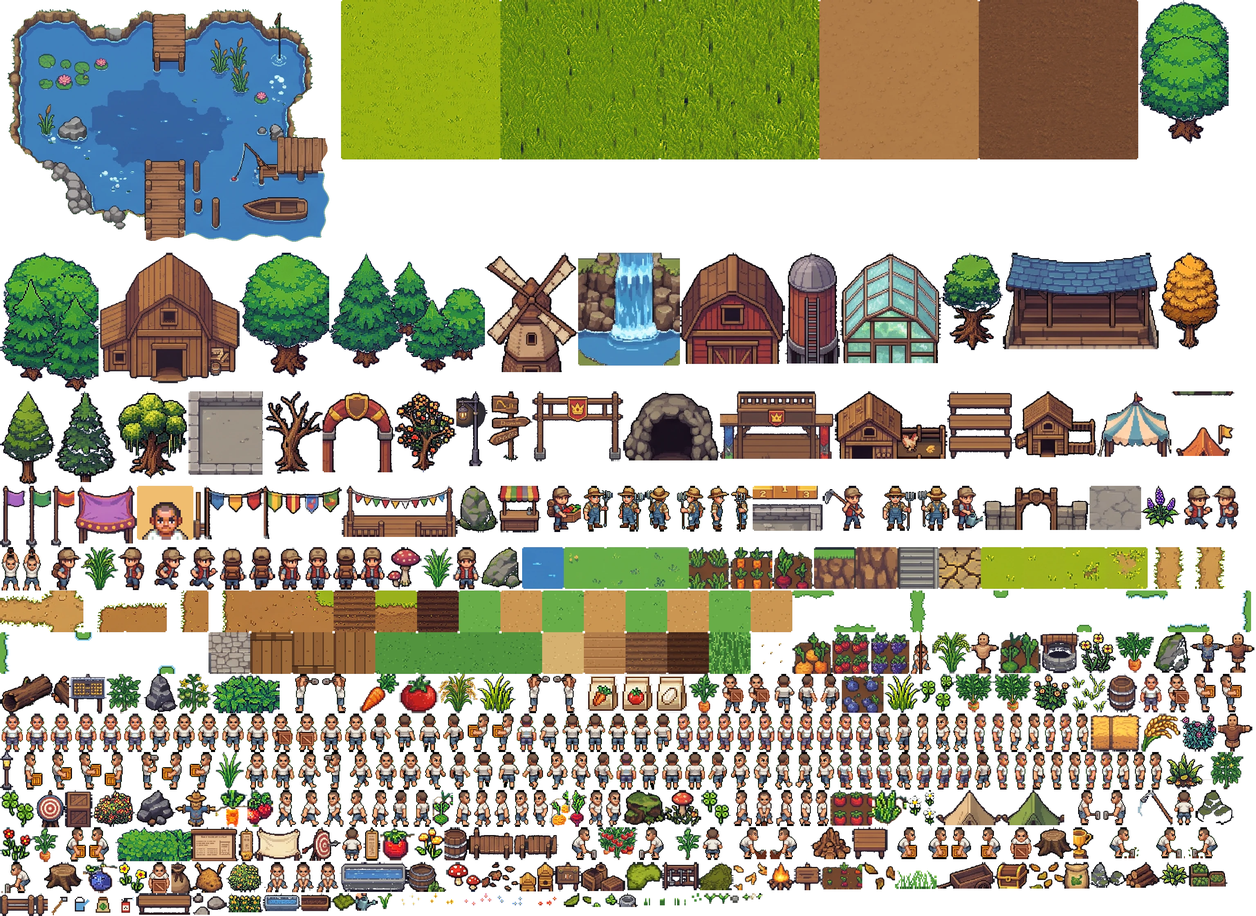
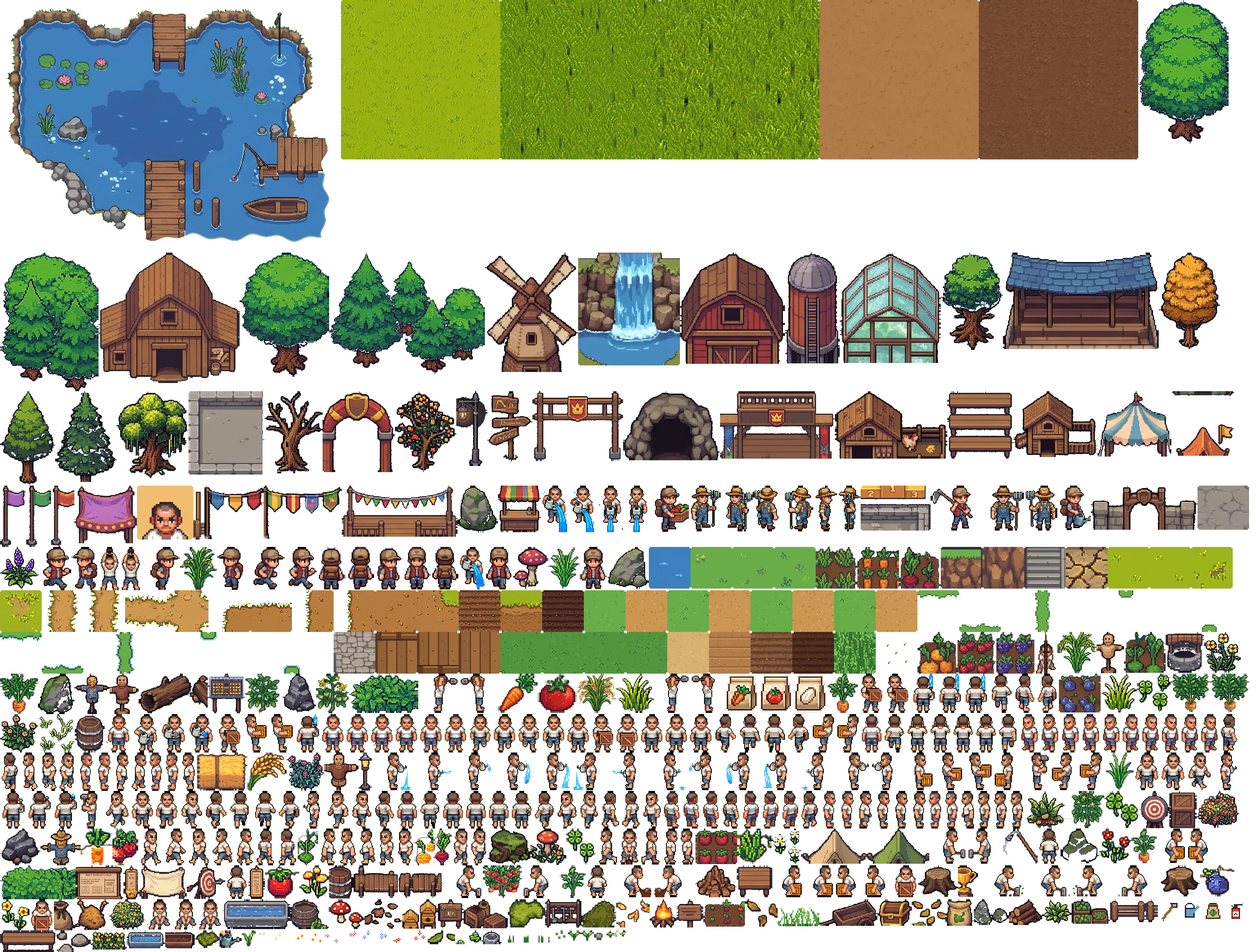
Hoạt ảnh tưới nước 4 hướng
- assets/source/char2/water_0,2,4,6.gif (xuống / phải / lên / trái, 9 khung)
- Giữ cả dòng nước chảy xuống dưới chân: phần thừa dưới mặt đất được lưu
  thành độ lệch neo (atlas.json "anchors"), nên chân vẫn đứng đúng đường đất
- 0,12 giây/khung (~1,1 giây), khoá di chuyển khi tưới; nước bắn lên đúng
  lúc dòng nước chạm đất; hướng chéo dùng hoạt ảnh ngang

Claude-Session: https://claude.ai/code/session_01BbaPnx3cHQqz9kHRAFFL9w

diff --git a/client/src/player.ts b/client/src/player.ts
@@ -49,14 +49,15 @@ export class Player {
   /** frame counts per direction of the full-body actions: h = harvest, g = hoe */
   harvestN: number[] = [];
   hoeN: number[] = [];
-  private static readonly FRAME: Record<string, number> = { h: 0.15, g: 0.1 };
+  waterN: number[] = [];
+  private static readonly FRAME: Record<string, number> = { h: 0.15, g: 0.1, u: 0.12 };
 
-  private playBody(tag: 'h' | 'g', counts: number[]): boolean {
+  private playBody(tag: 'h' | 'g' | 'u', counts: number[]): boolean {
     const d = this.bodyDir(counts);
     const n = counts[d] || 0;
     if (!n) return false;
     const total = n * Player.FRAME[tag];
-    this.action = { name: tag === 'h' ? 'harvest' : 'hoe', t: total };
+    this.action = { name: tag === 'h' ? 'harvest' : tag === 'g' ? 'hoe' : 'water', t: total };
     this.bodyAnim = { tag, d, n, total };
     return true;
   }
@@ -64,6 +65,8 @@ export class Player {
   playHarvest() { return this.playBody('h', this.harvestN); }
   /** Hoe animation: swing the hoe over the head and strike the soil. */
   playHoe() { return this.playBody('g', this.hoeN); }
+  /** Watering animation: tip the can, water pours onto the soil. */
+  playWater() { return this.playBody('u', this.waterN); }
   private bodyAnim = { tag: 'h', d: 0, n: 0, total: 1 };
   /** diagonals use the side animation; a missing direction falls back to the side / front one */
   private bodyDir(counts: number[]) {
@@ -72,7 +75,7 @@ export class Player {
     if (!counts[d]) d = d === 4 ? (counts[2] ? 2 : 0) : d;
     return d;
   }
-  get busy() { return !!this.action && (this.action.name === 'harvest' || this.action.name === 'hoe'); }
+  get busy() { return !!this.action && (this.action.name === 'harvest' || this.action.name === 'hoe' || this.action.name === 'water'); }
   /** 0 down, 1 down-right, 2 right, 3 up-right, 4 up, 5 up-left, 6 left, 7 down-left */
   dir8 = 0;
 

diff --git a/client/src/main.ts b/client/src/main.ts
@@ -72,6 +72,7 @@ if (atlas.frames['pl4_0_w0']) {
   player.walkN = [0, 1, 2, 3, 4, 5, 6, 7].map((d) => count(d, 'w'));
   player.harvestN = [0, 1, 2, 3, 4, 5, 6, 7].map((d) => count(d, 'h'));
   player.hoeN = [0, 1, 2, 3, 4, 5, 6, 7].map((d) => count(d, 'g'));
+  player.waterN = [0, 1, 2, 3, 4, 5, 6, 7].map((d) => count(d, 'u'));
 }
 
 document.getElementById('loading')!.remove();
@@ -136,7 +137,7 @@ function useTarget(t: Target) {
   }
   const slot = ui.current;
   if (slot.id === 'hoe') { if (store.act({ t: 'till', x: tx, y: ty })) { if (!player.playHoe()) player.playAction('pl_hoe'); setTimeout(() => fx.burst(bx + bc / 2, by + bc - 4, 'soil', 10), 420); } }
-  else if (slot.id === 'can') { if (store.act({ t: 'water', x: tx, y: ty })) { player.playAction('pl_water'); fx.burst(bx + bc / 2, by + bc / 2, 'water', 12); } }
+  else if (slot.id === 'can') { if (store.act({ t: 'water', x: tx, y: ty })) { if (!player.playWater()) player.playAction('pl_water'); setTimeout(() => fx.burst(bx + bc / 2, by + bc / 2, 'water', 12), 550); } }
   else if (slot.id.startsWith('seed:')) store.act({ t: 'plant', x: tx, y: ty, crop: slot.id.slice(5) });
   else if (slot.id === 'fert') { if (store.act({ t: 'fertilize', x: tx, y: ty })) { ui.toast('Đã bón phân', 900); fx.burst(bx + bc / 2, by + bc / 2, 'soil', 10); } }
   else if (slot.id === 'spray') { if (store.act({ t: 'spray', x: tx, y: ty })) { ui.toast('Đã diệt sâu', 900); fx.burst(bx + bc / 2, by + bc / 2, 'water', 16); } }

diff --git a/client/src/atlas.ts b/client/src/atlas.ts
@@ -1,6 +1,6 @@
 /** [srcX, srcY, worldW, worldH, srcW, srcH]: source rect in the atlas image,
  *  size in game pixels (atlas is stored at `res` x density). */
-export type Frame = [x: number, y: number, w: number, h: number, sw: number, sh: number];
+export type Frame = [x: number, y: number, w: number, h: number, sw: number, sh: number, below?: number];
 
 export interface Atlas {
   img: CanvasImageSource;
@@ -62,7 +62,8 @@ export async function loadAtlas(base = '/assets/', onProgress?: (p: number) => v
   const frames: Record<string, Frame> = {};
   for (const k in meta.frames) {
     const [x, y, w, h] = meta.frames[k];
-    frames[k] = [x, y, w / res, h / res, w, h];
+    const below = meta.anchors?.[k] ? meta.anchors[k] / res : 0;
+    frames[k] = [x, y, w / res, h / res, w, h, below];
   }
   return { img, frames, res, masks: meta.masks || {} };
 }
@@ -74,7 +75,7 @@ export function drawAnchored(
 ) {
   const f = a.frames[name];
   if (!f) return;
-  const dx = Math.round(x - f[2] / 2), dy = Math.round(y - f[3]);
+  const dx = Math.round(x - f[2] / 2), dy = Math.round(y - f[3] + (f[6] || 0));
   if (flip) {
     ctx.save();
     ctx.translate(dx + f[2], dy);

diff --git a/tools/build_assets.py b/tools/build_assets.py
@@ -295,6 +295,9 @@ def cut_player_walk():
     return out
 
 
+ANCHORS = {}   # sprite name -> px (atlas) the image extends below its anchor
+
+
 def cut_char2():
     """assets/source/char2/: idle_<d>.gif (breathing, 4 directions) and
     walk_<d>.gif (8 directions). d: 0 down, 1 down-right, 2 right, 3 up-right,
@@ -338,18 +341,23 @@ def cut_char2():
             out[f'pl4_{d}_w{i}'] = place(f, cx)
         # harvest (pick up a crate): same canvas position as the idle frames,
         # bottom cut at the idle feet line so the body does not jump
-        for act, tag in (('harvest', 'h'), ('hoe', 'g')):
+        for act, tag in (('harvest', 'h'), ('hoe', 'g'), ('water', 'u')):
           hp = os.path.join(base, f'{act}_{d}.gif')
           if not os.path.exists(hp):
               continue
           base_y = max(f.getchannel('A').getbbox()[3] for f in idle)
           for i, f in enumerate(load(hp)):
-              f2 = f.crop((0, 0, f.width, base_y))
+              # watering: keep the water that falls below the feet line; the
+              # extra height is stored as an anchor offset (ANCHORS)
+              bot = max(base_y, f.getchannel('A').getbbox()[3]) if tag == 'u' else base_y
+              f2 = f.crop((0, 0, f.width, bot))
               bb2 = f2.getchannel('A').getbbox()
               hw = max(cx - bb2[0], bb2[2] - cx) + 1
-              im = Image.new('RGBA', (hw * 2, base_y - bb2[1]), (0, 0, 0, 0))
-              im.paste(f2.crop((bb2[0], bb2[1], bb2[2], base_y)), (hw - (cx - bb2[0]), 0))
+              im = Image.new('RGBA', (hw * 2, bot - bb2[1]), (0, 0, 0, 0))
+              im.paste(f2.crop((bb2[0], bb2[1], bb2[2], bot)), (hw - (cx - bb2[0]), 0))
               out[f'pl4_{d}_{tag}{i}'] = im
+              if bot > base_y:
+                  ANCHORS[f'pl4_{d}_{tag}{i}'] = bot - base_y
     return out
 
 
@@ -1183,7 +1191,7 @@ def main():
     out_path = os.path.join(OUT_DIR, 'atlas.webp')
     atlas.save(out_path, 'WEBP', quality=90, method=6)
     with open(os.path.join(OUT_DIR, 'atlas.json'), 'w') as f:
-        json.dump({'w': atlas.width, 'h': atlas.height, 'res': RES, 'frames': rects, 'masks': masks}, f, separators=(',', ':'))
+        json.dump({'w': atlas.width, 'h': atlas.height, 'res': RES, 'frames': rects, 'masks': masks, 'anchors': ANCHORS}, f, separators=(',', ':'))
     print(f'atlas {atlas.width}x{atlas.height} @{RES}x, {len(rects)} sprites, {os.path.getsize(out_path)//1024} KB')
 
     if '--preview' in sys.argv:
